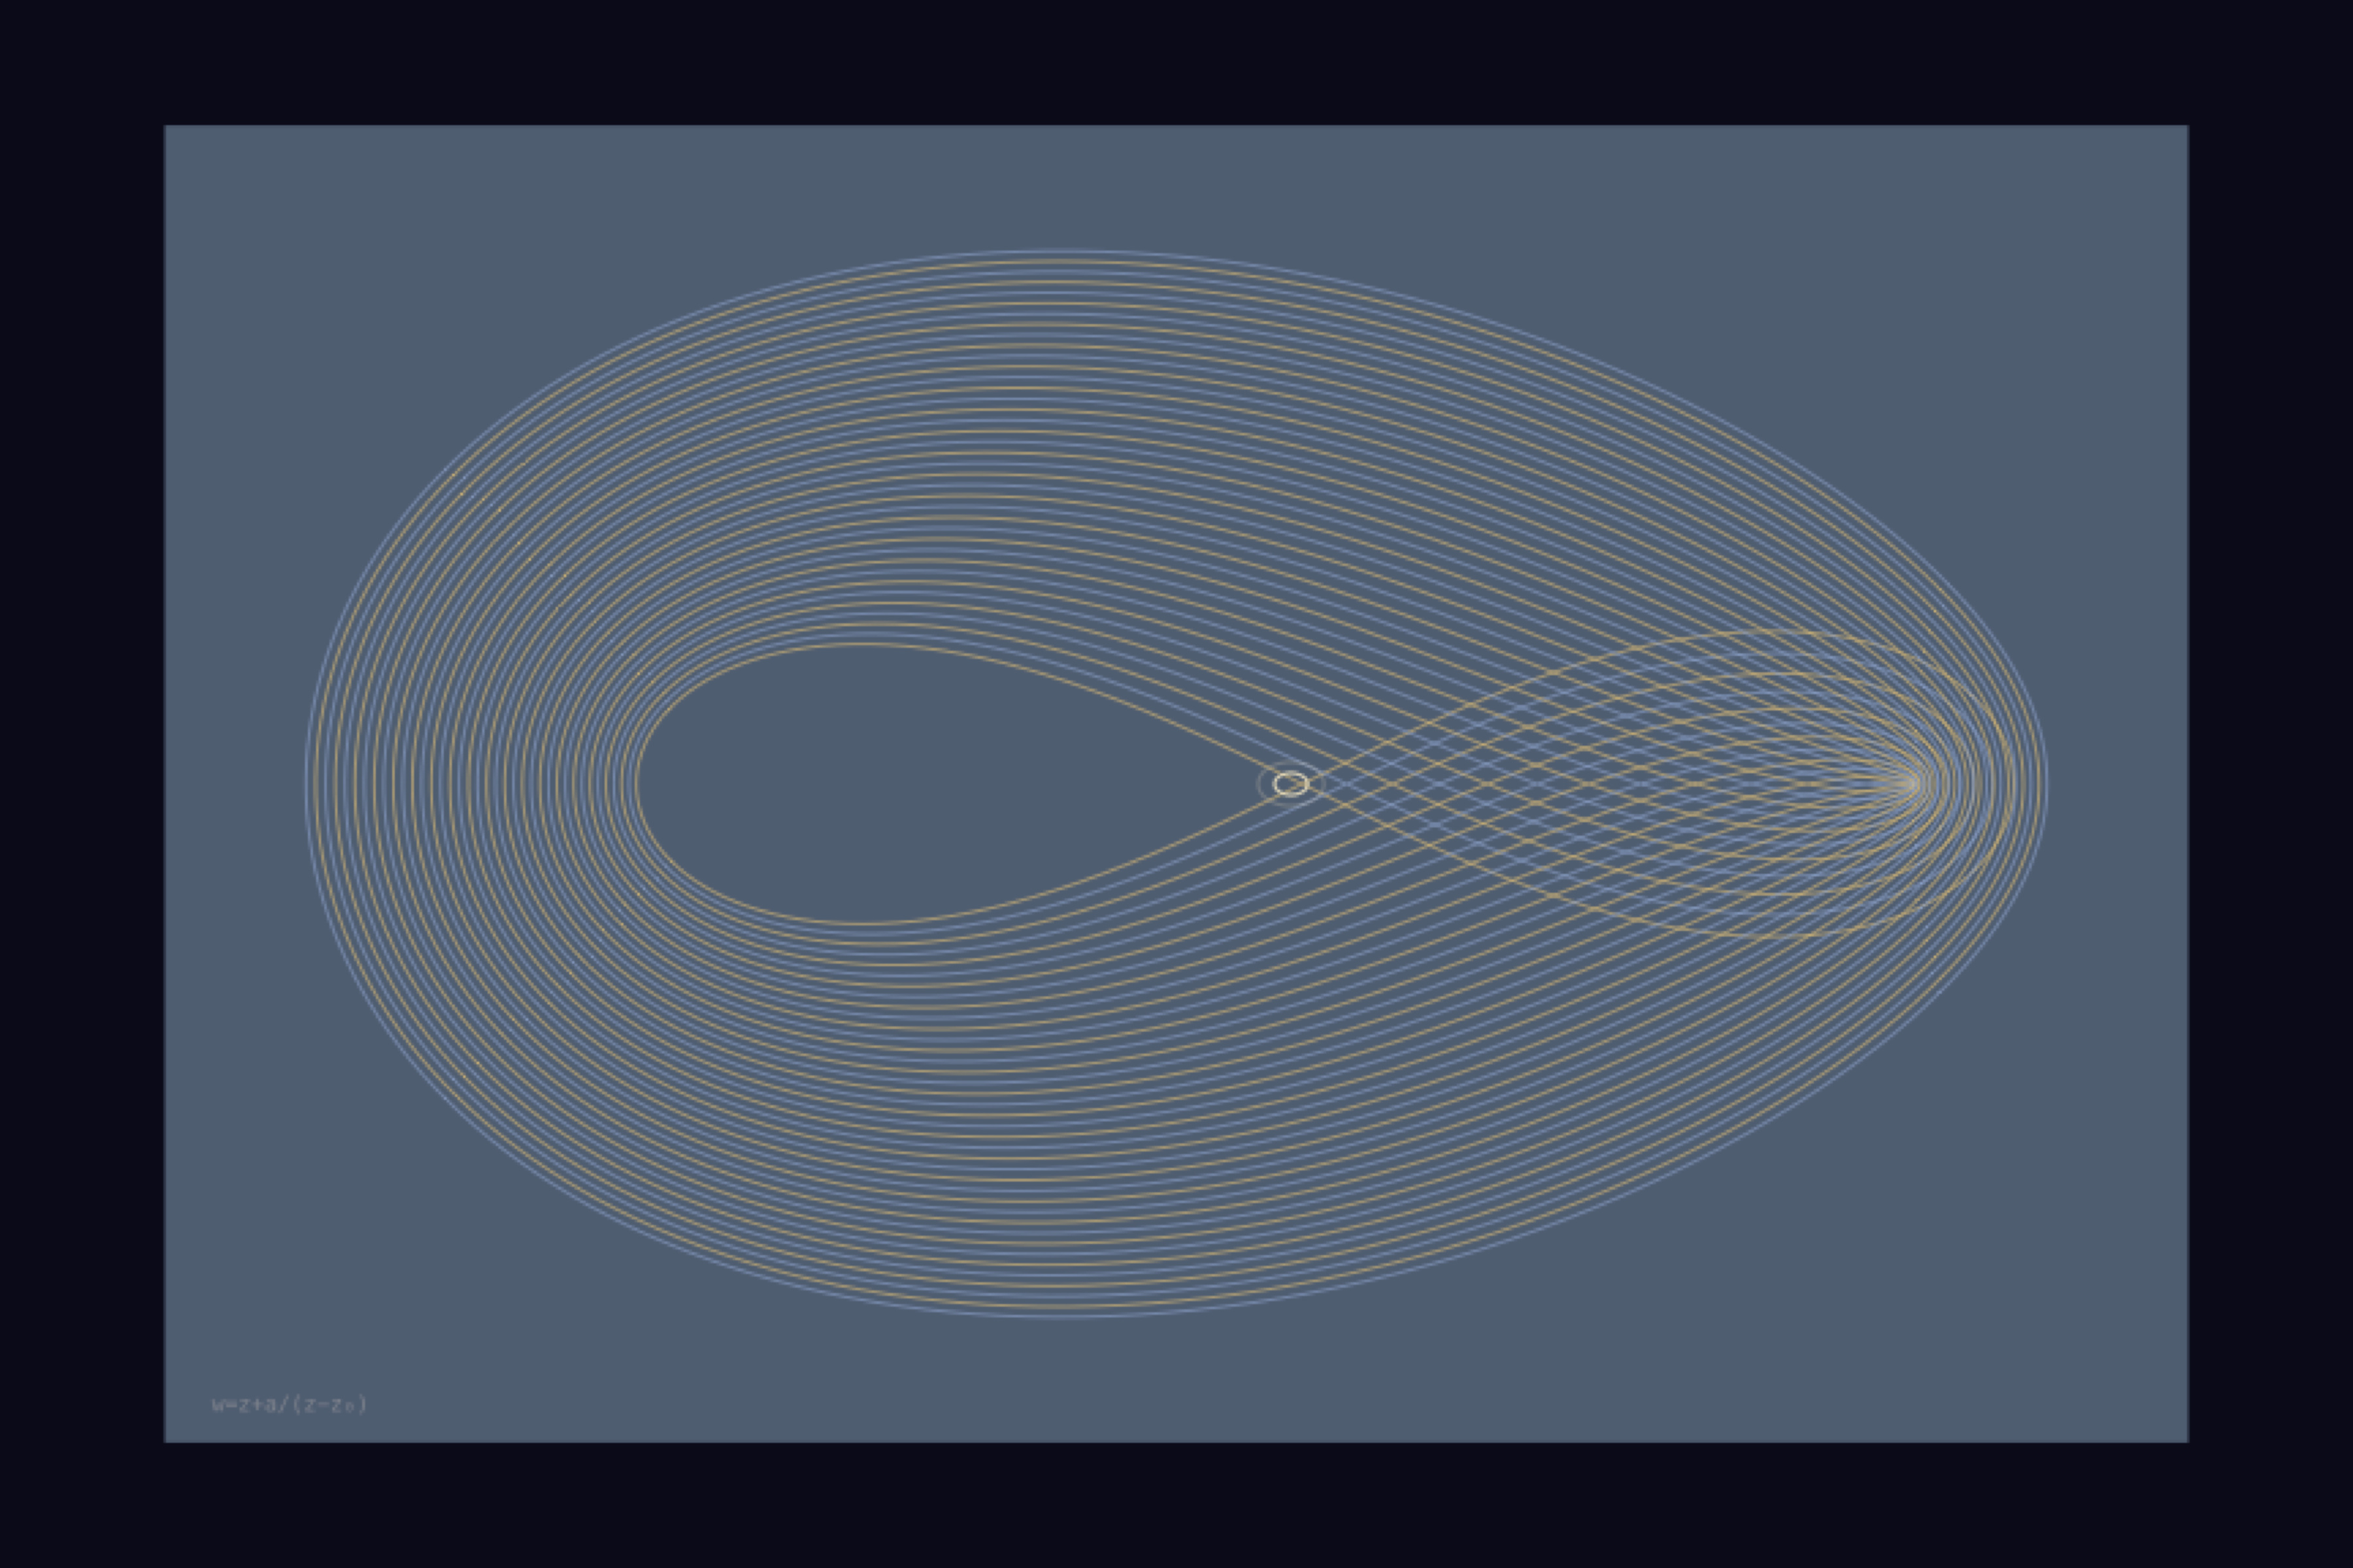
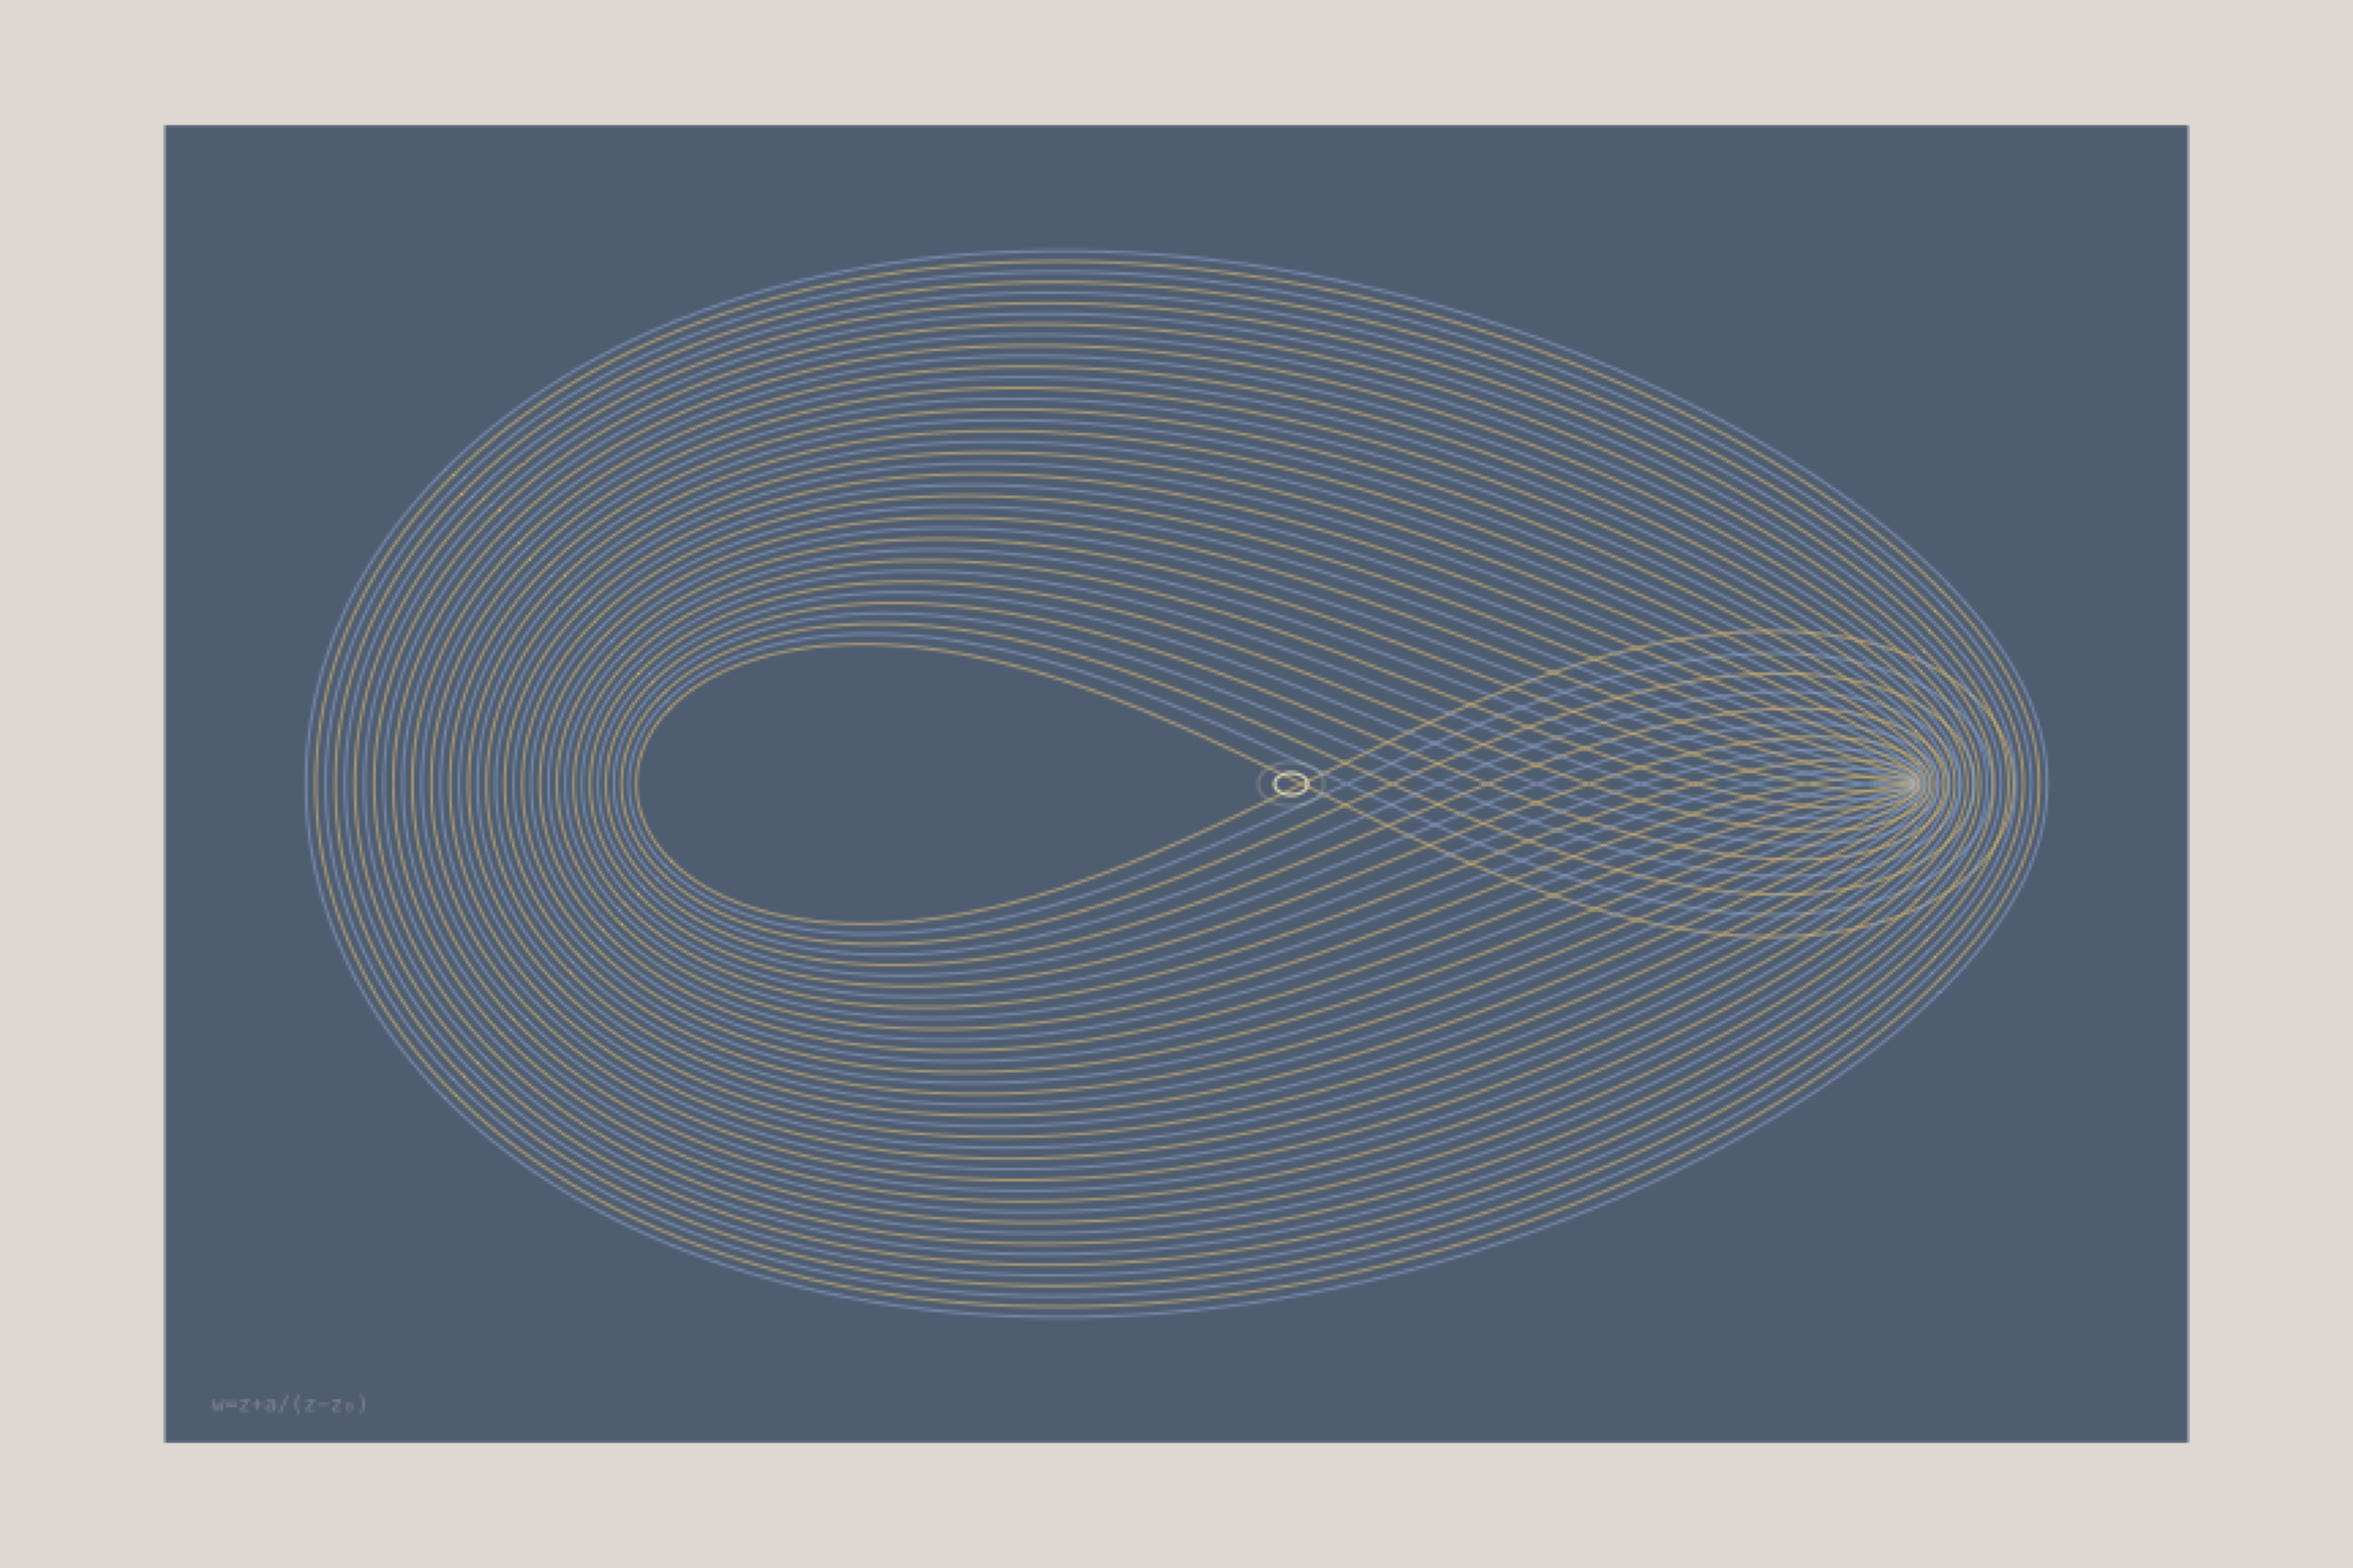
Match wonder_transform margin color to wonder_recursion (#DDD9D2)

Changed region(s): [[0.0, 0.0, 1.0, 1.0]]

diff --git a/mathematical_affect/pieces/wonder/wonder_transform.py b/mathematical_affect/pieces/wonder/wonder_transform.py
@@ -21,7 +21,7 @@ BG_COLOR = '#4f5d71'
 
 
 def render():
-    SERIES_BG = '#0A0A18'  # wonder series background (deep navy)
+    SERIES_BG = '#DDD9D2'  # matching wonder_recursion margin color
 
     blue = '#90a6cf'
     gold = '#d6b876'
